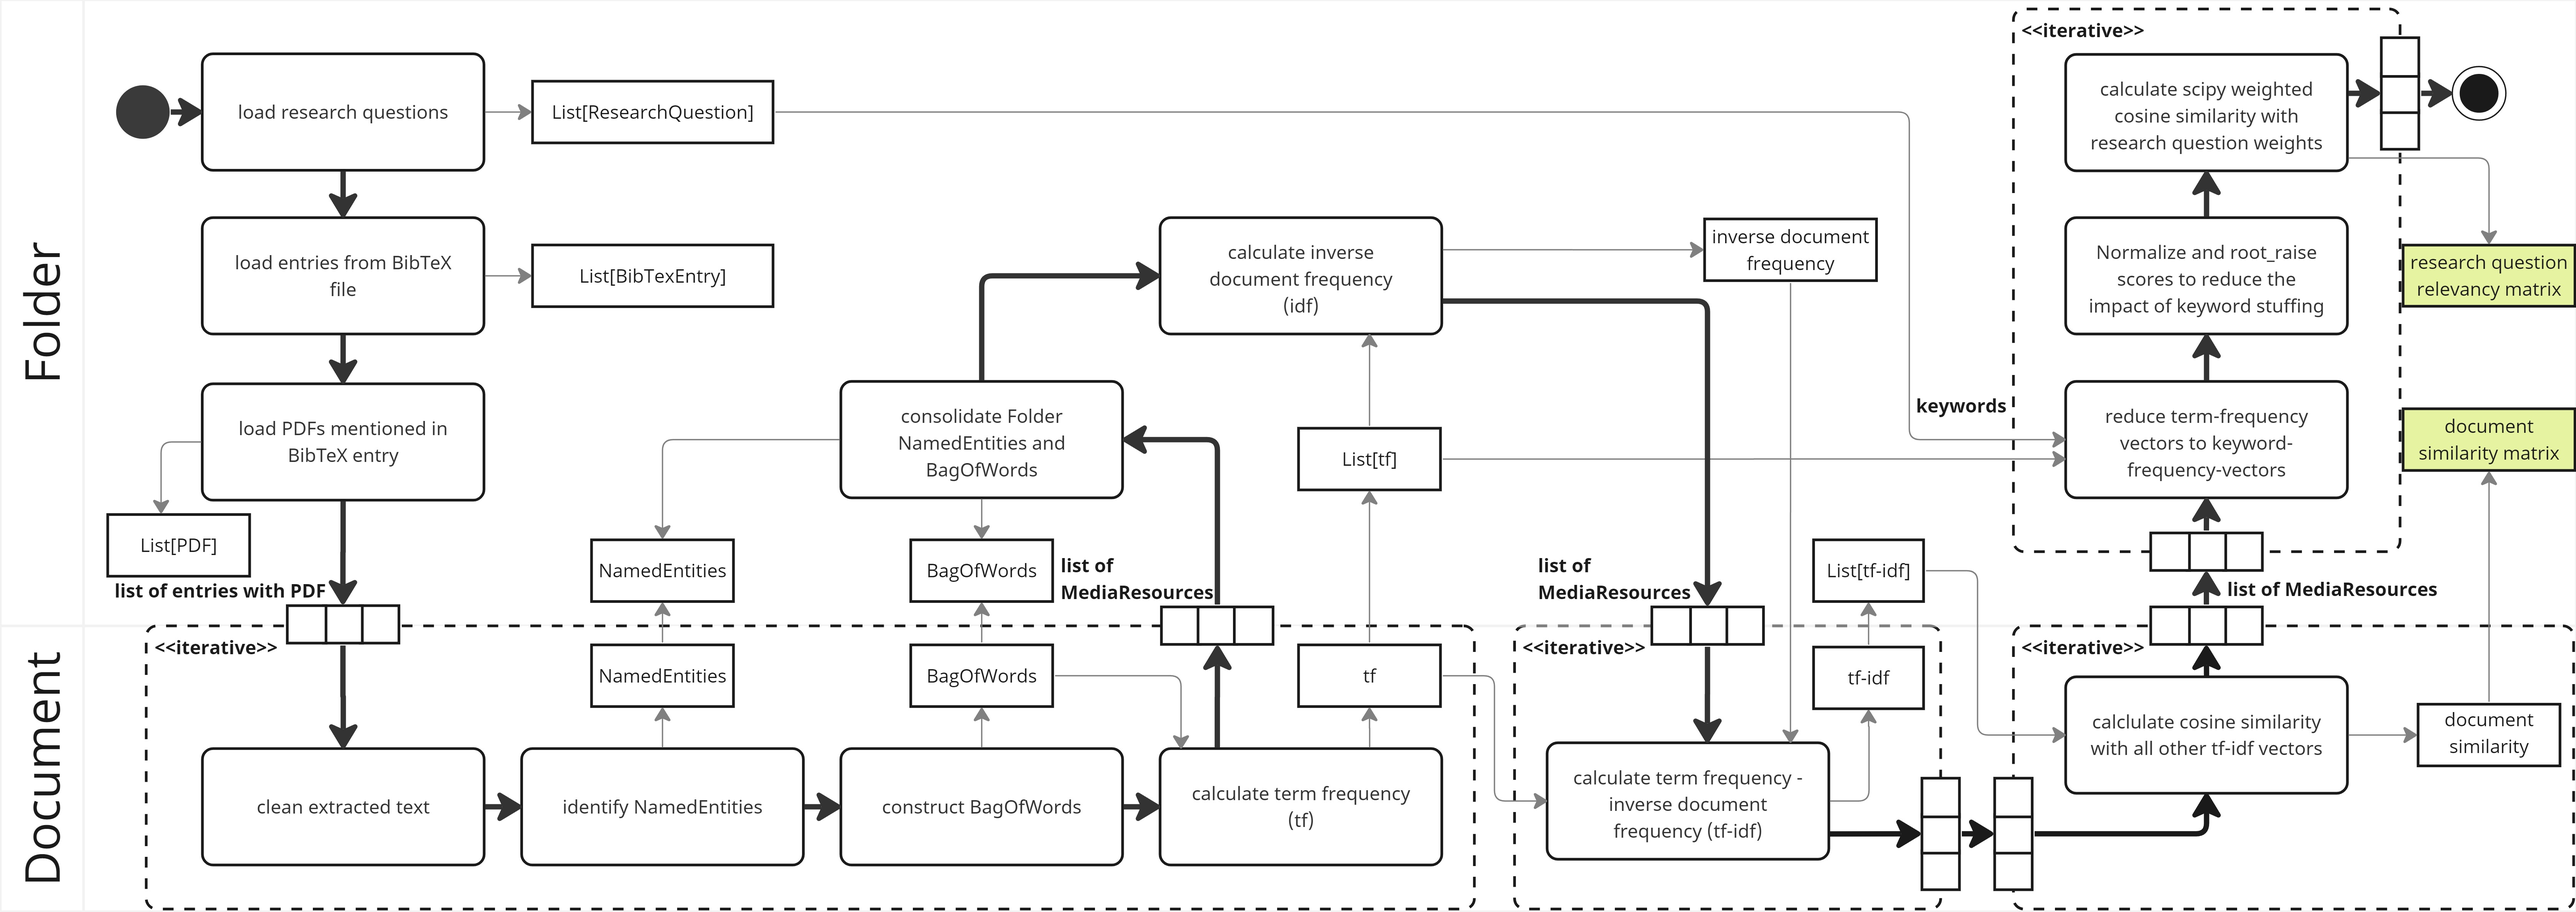
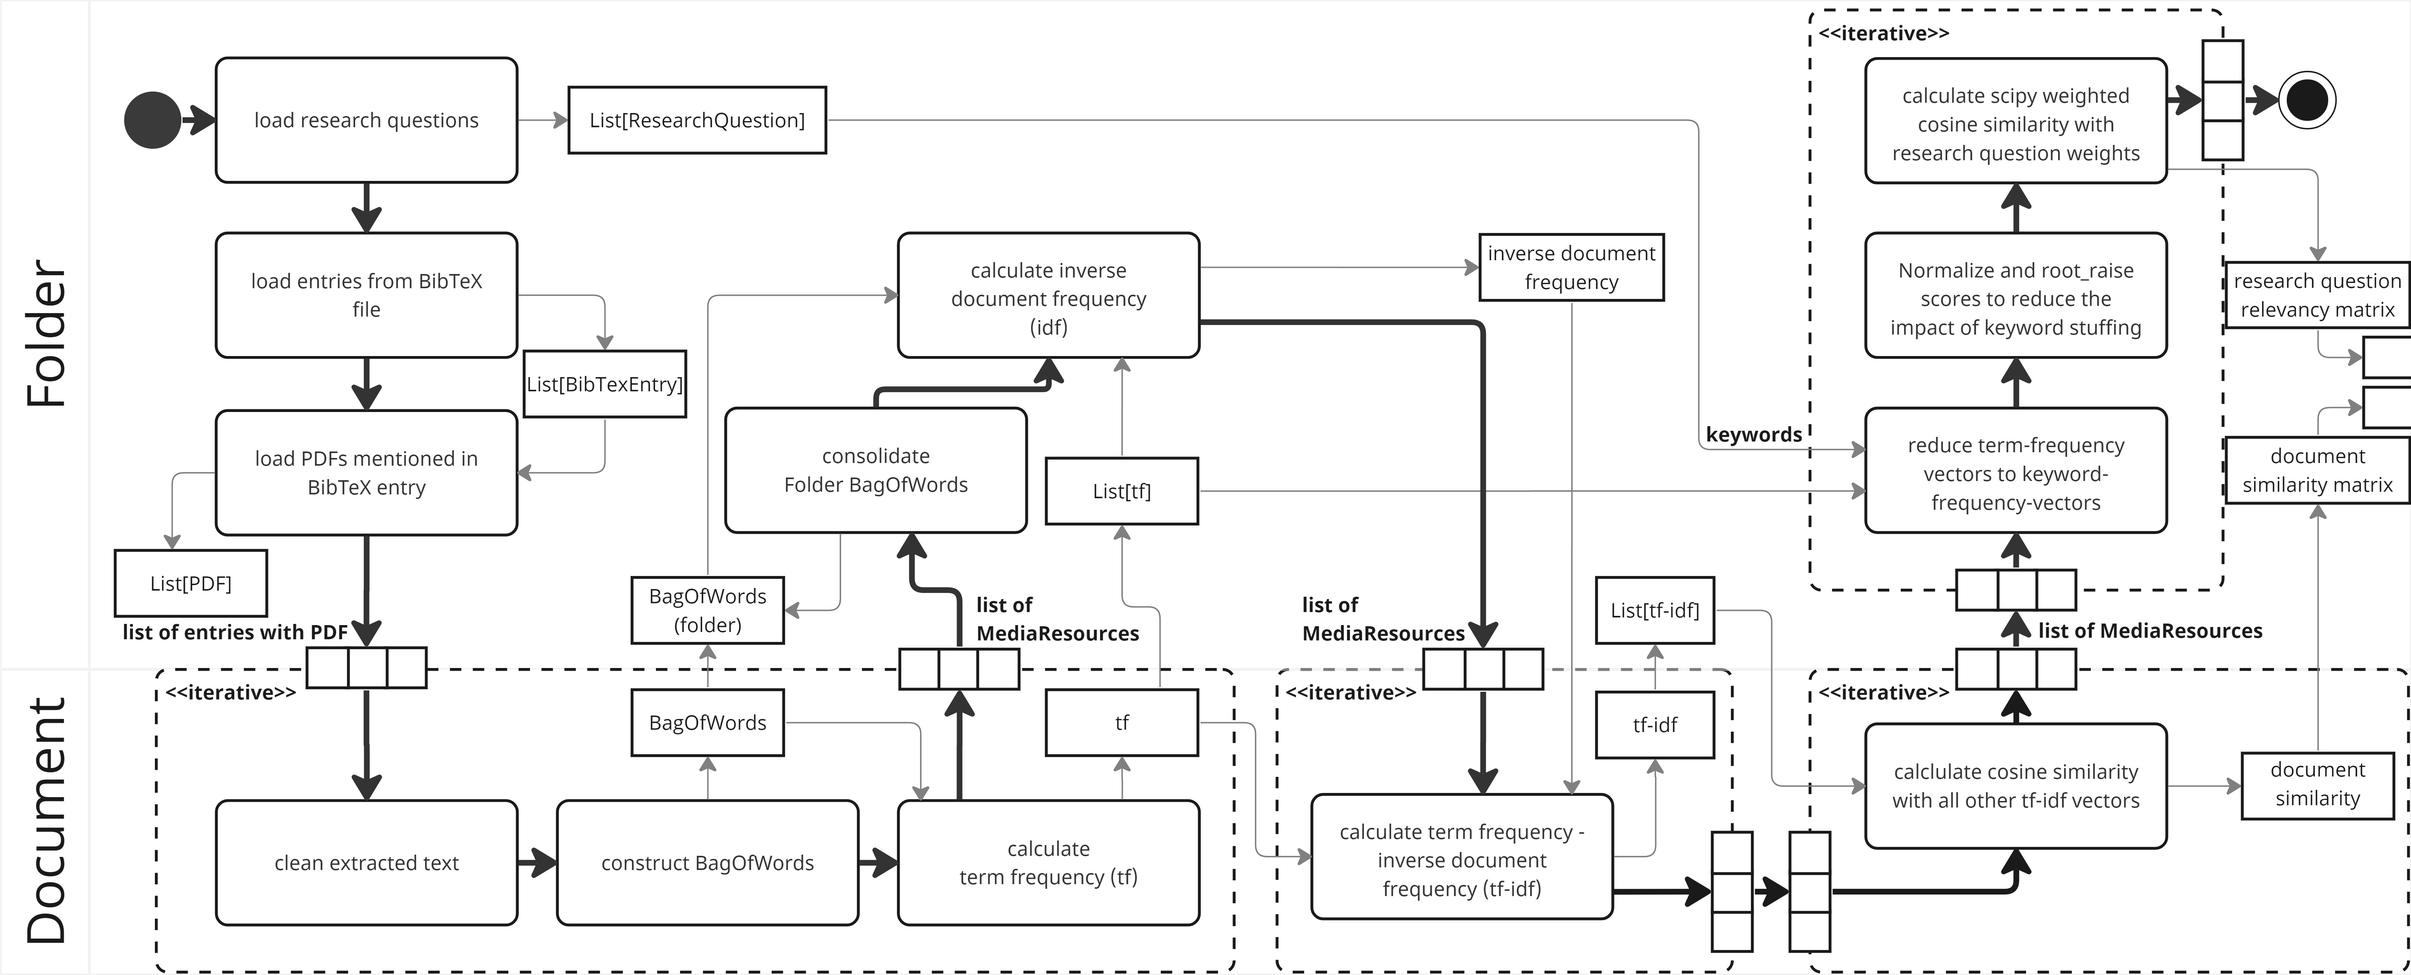
removed Named Entities

diff --git a/tests/README.md b/tests/README.md
@@ -92,6 +92,7 @@ Make sure you have installed PyPA's build in your venv:
 ```
 py -m pip install --upgrade build
 ```
+
 #### Package debugging
 ```
 pip uninstall -y bnw_tools
@@ -106,4 +107,4 @@ pip install dist\bnw_tools-0.0.1.2.tar.gz
 twine upload dist/*
 ```
 username: ```__token__```
-password: *a valid PiPy token*
+password: *a valid PyPi token*
